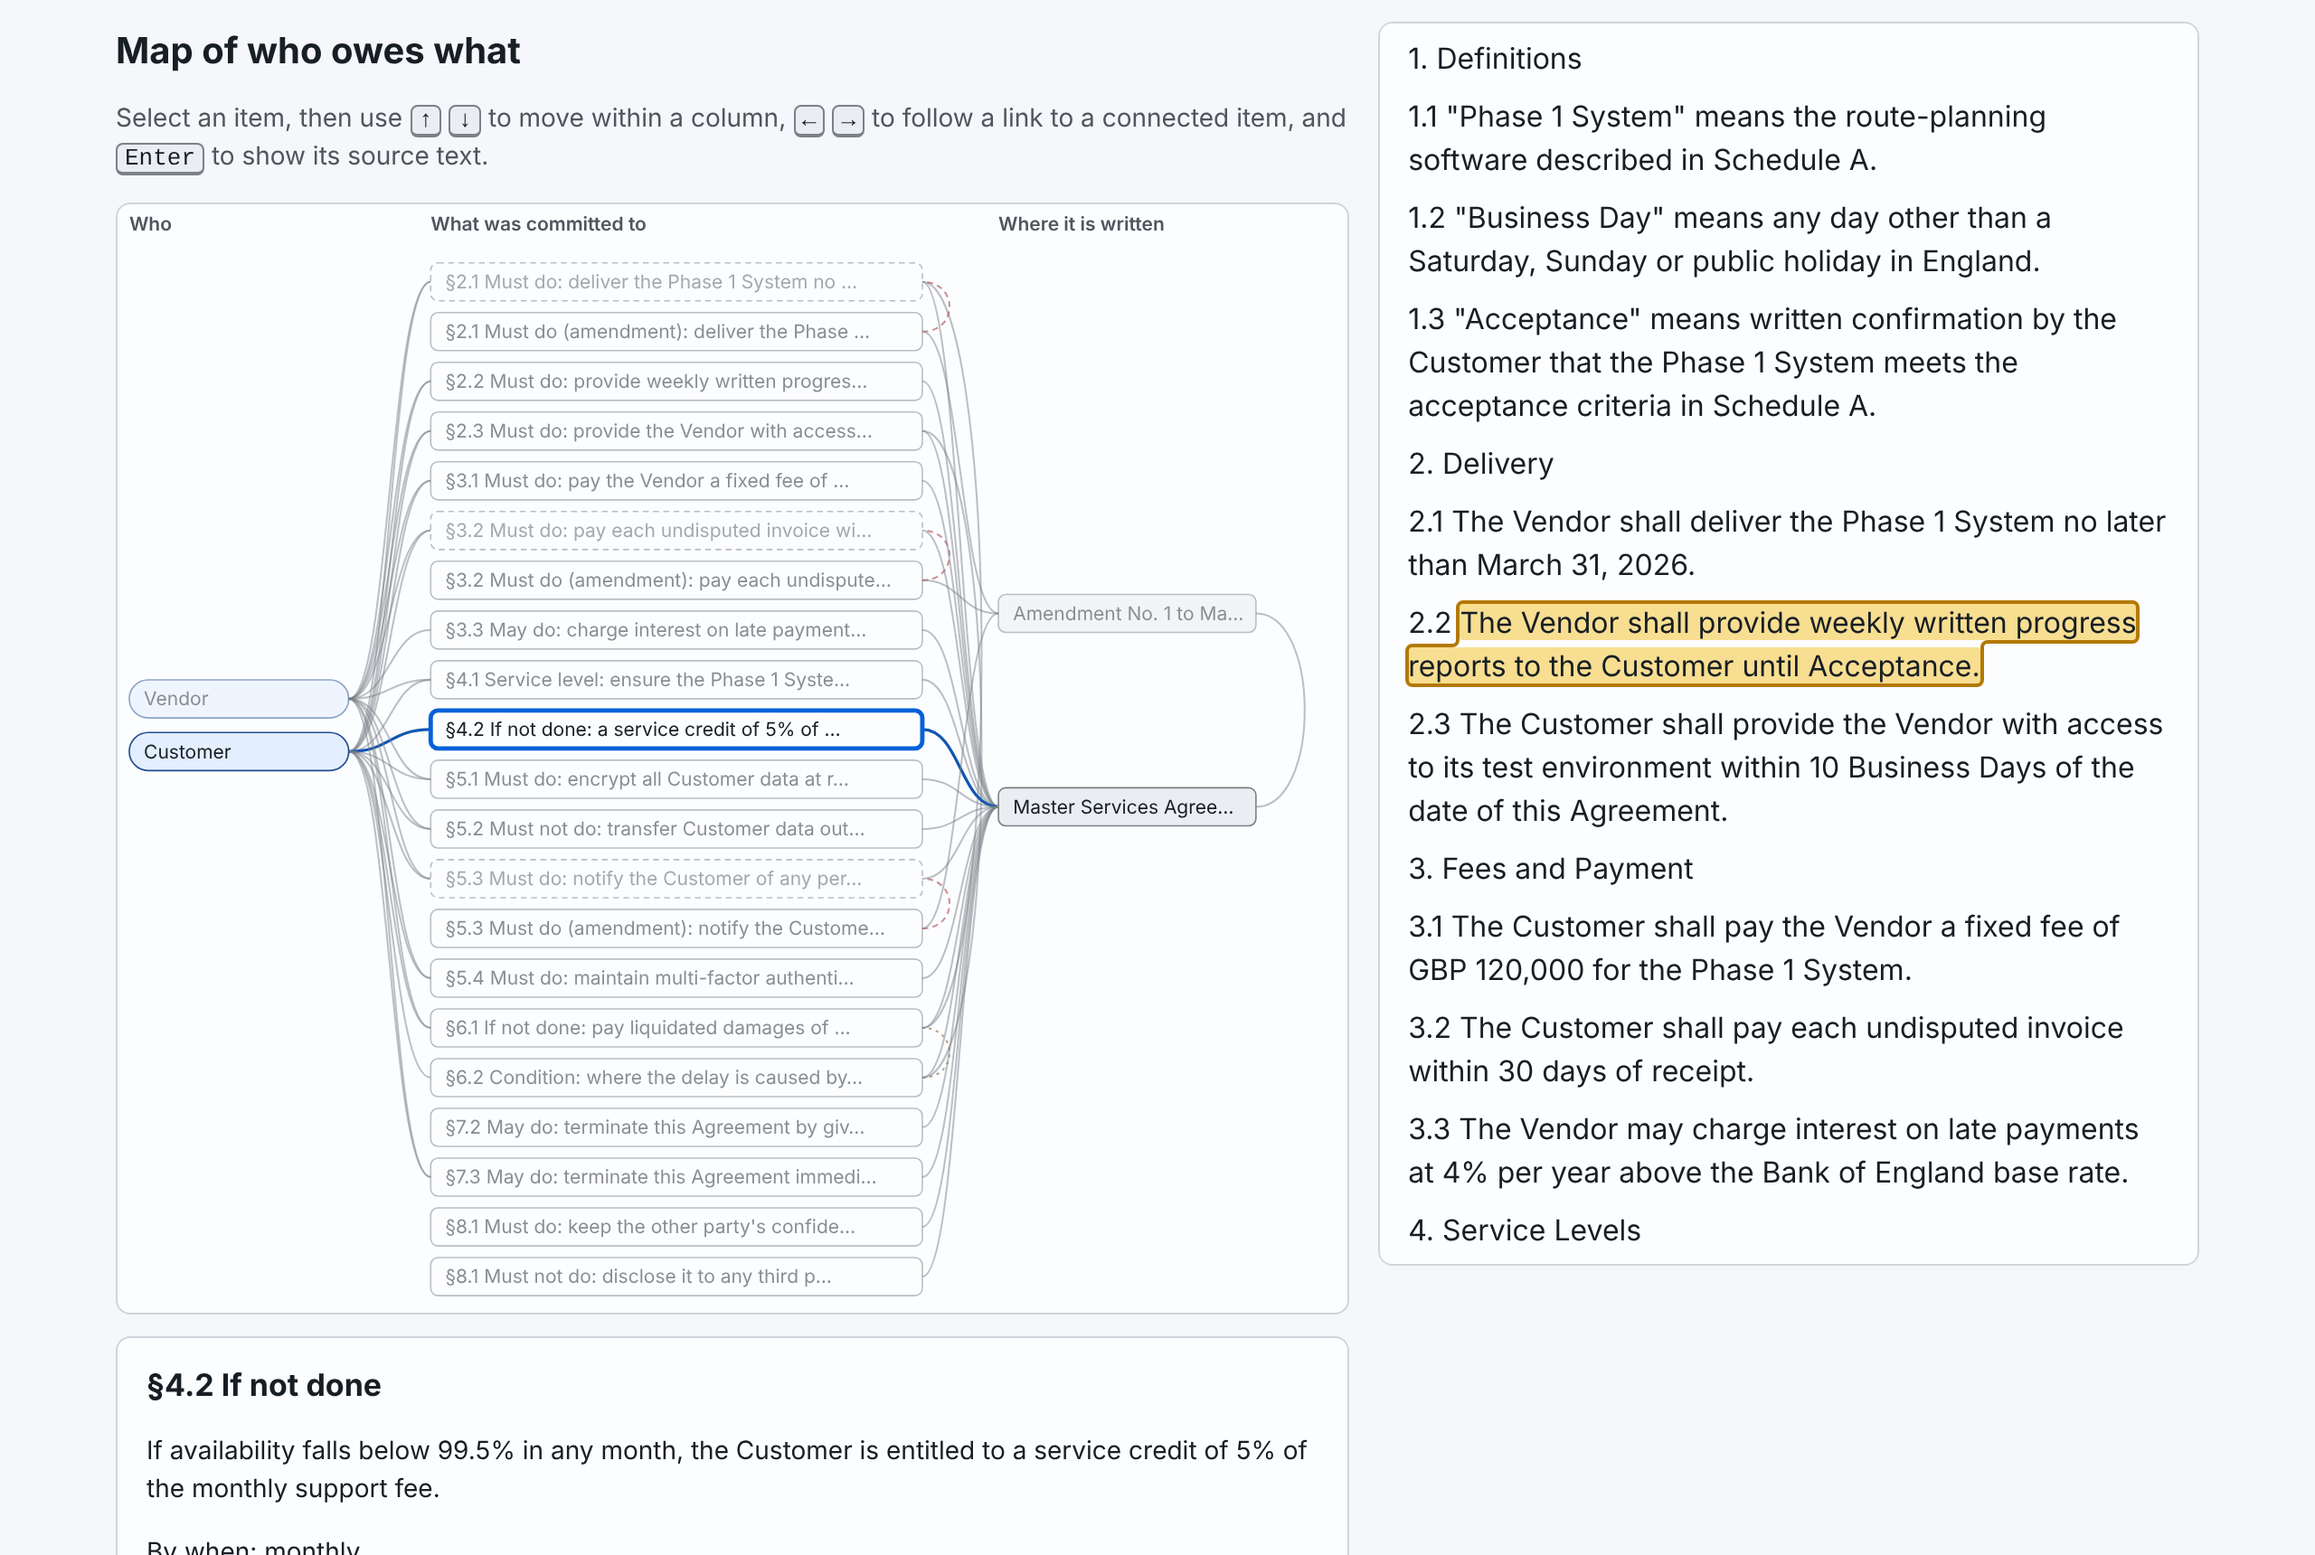
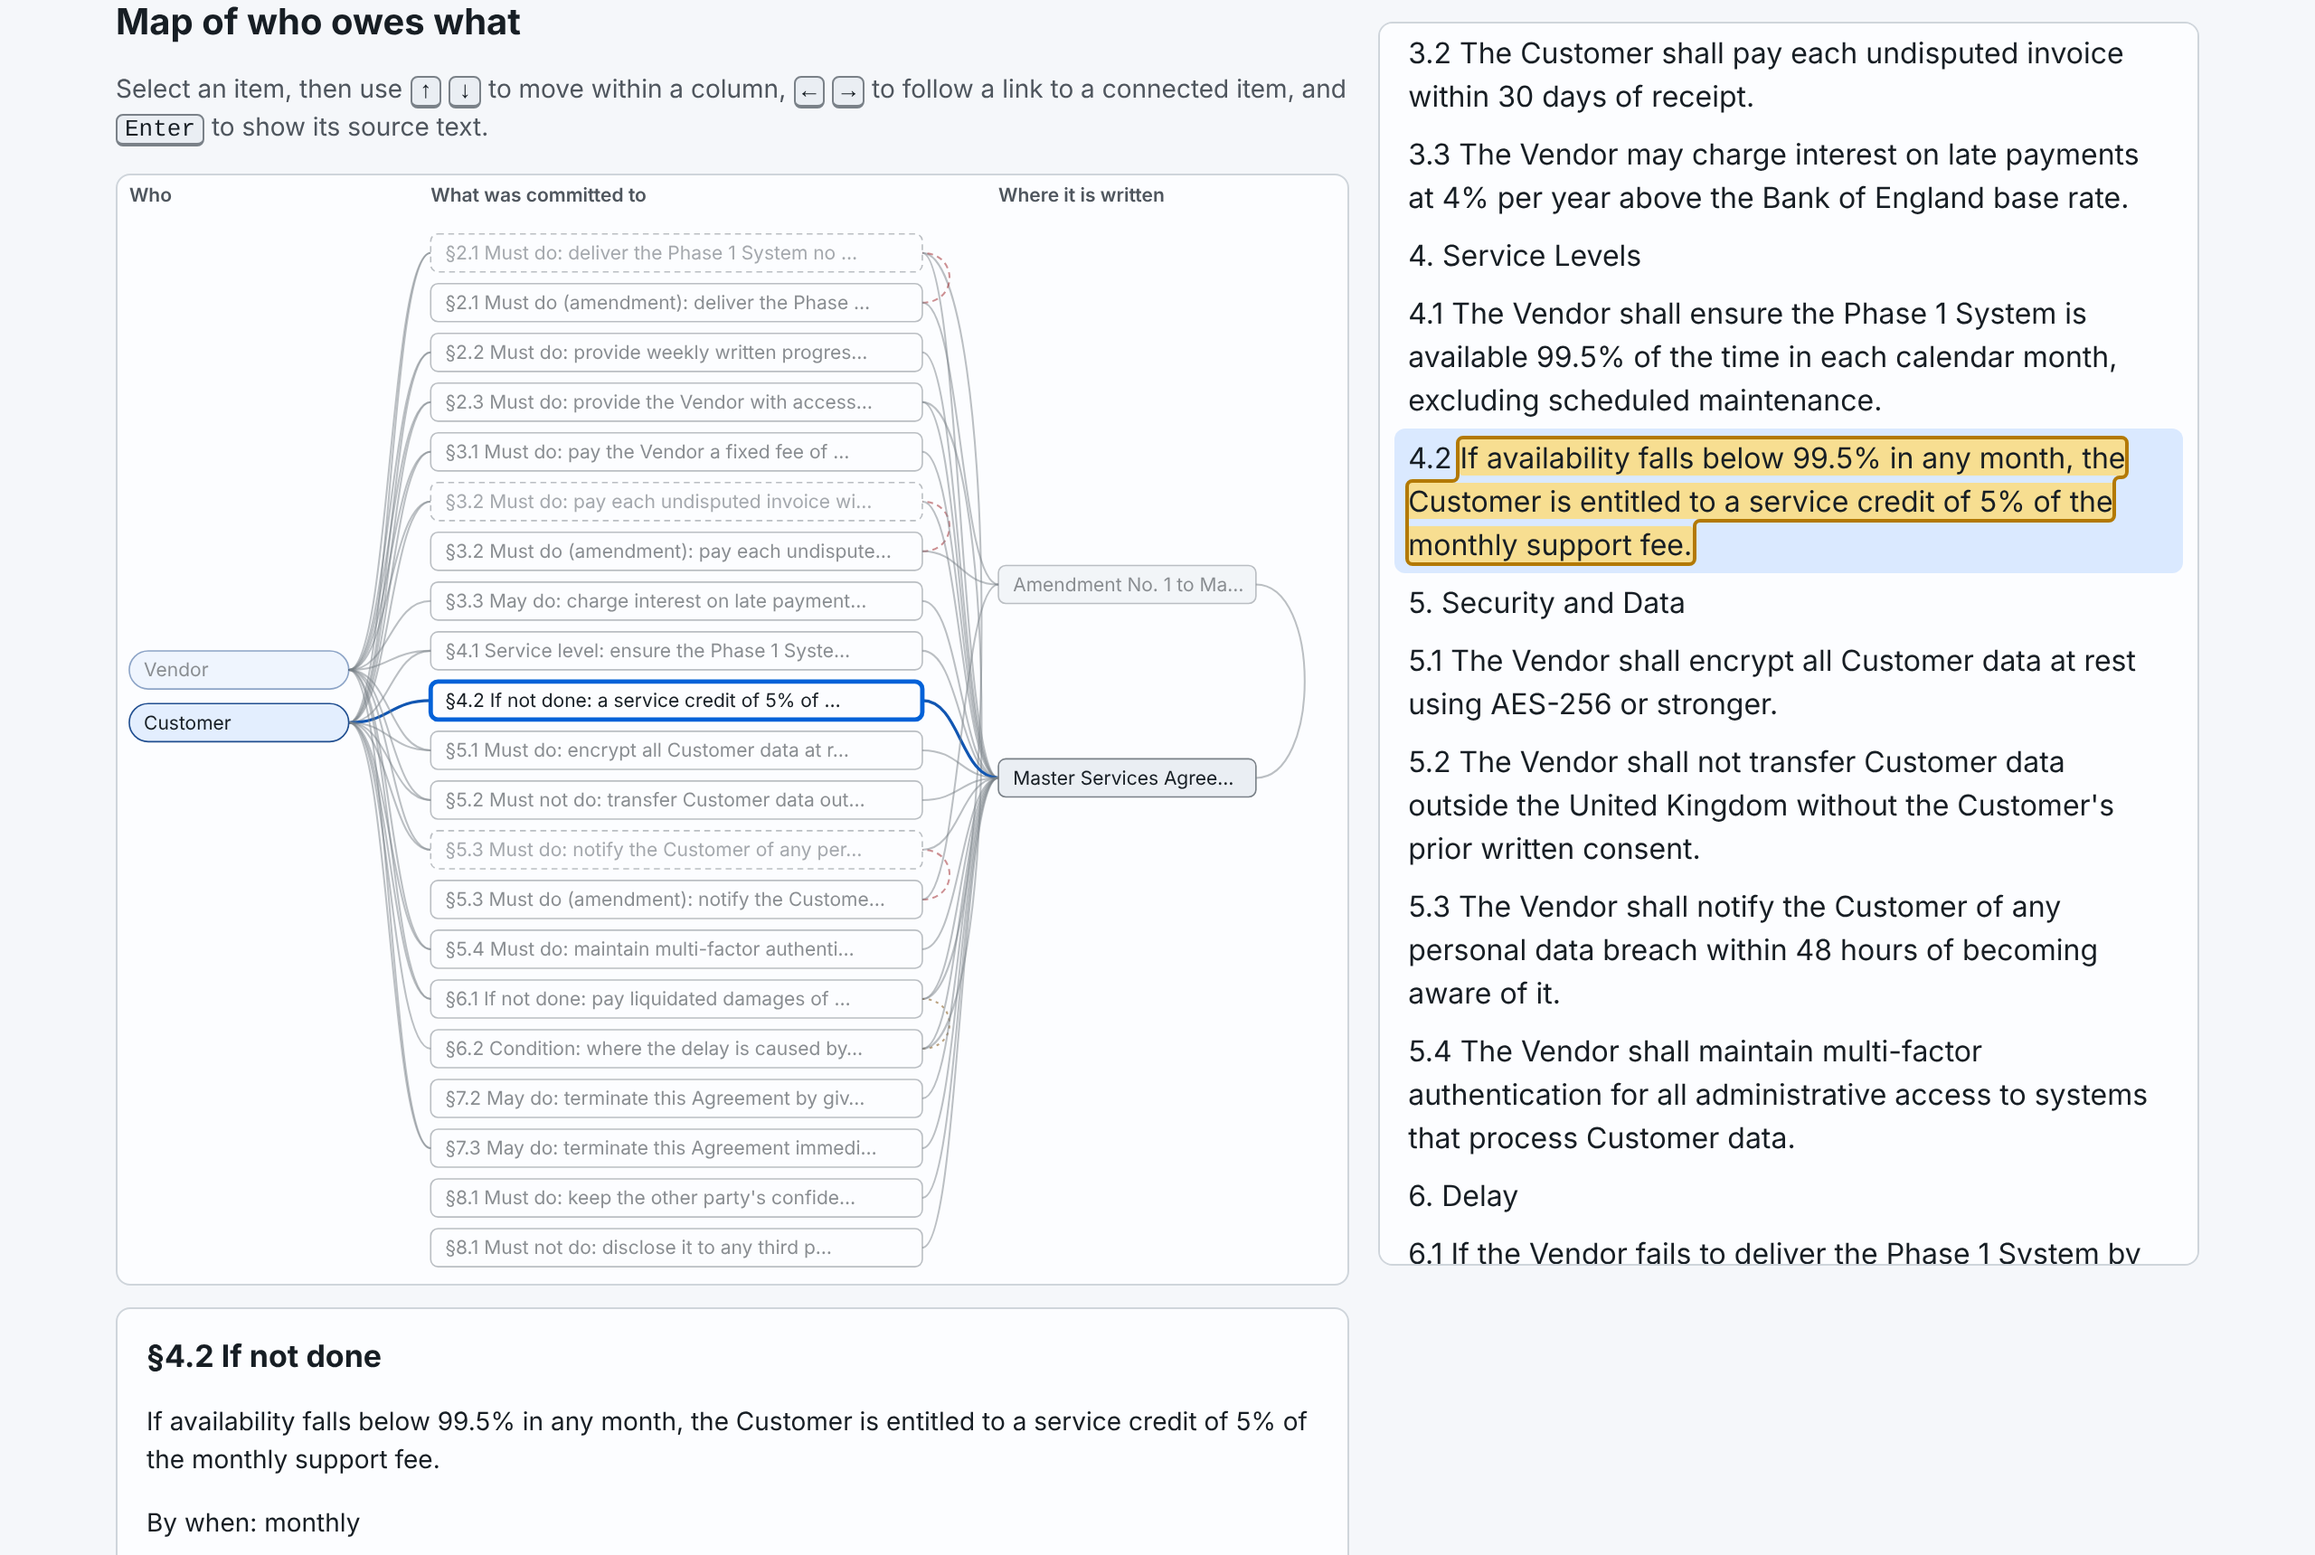
fix(web): keep the source highlight in step with the graph selection
focusNode (click, arrow keys, detail-pane links) changed the selected graph node but not the source
pane's highlight, so the pane kept showing the previously shown node's passage (docs/img/graph.png
showed exactly that: §4.2 selected, §2.2 highlighted).

RelationshipGraph now reports every selection change through onSelect; DocumentView highlights the
selected item's own span when it is in this document and clears the highlight otherwise (other
documents, Escape). Only the source pane scrolls, so keyboard navigation does not move the page.

e2e/smoke.mjs: after Enter shows a node, clicking another node, ArrowUp and following a detail-pane
link must each leave the highlight on the selected node's passage (or none). The axe helper now
waits for finite entrance animations to finish: contrast measured mid-fade on Ask was an
intermittent false failure (also seen with the original UI).

docs/img/graph.png regenerated at deviceScaleFactor 2: §4.2 selected with its own passage
highlighted.

Claude-Session: https://claude.ai/code/session_01GLxj2ZjLiticLiWJKfpWWb

Changed region(s): [[0.0312, 0.0, 0.9688, 1.0], [0.4375, 0.1233, 0.5, 0.1541]]

diff --git a/apps/web/src/Graph.tsx b/apps/web/src/Graph.tsx
@@ -33,8 +33,11 @@ function spread(nodes: GNode[], want: Map<string, number>) {
   for (const n of nodes) { n.y = Math.max(want.get(n.id) ?? TOP, last + MIN_GAP); last = n.y; }
 }
 
-export function RelationshipGraph({ graph, docId, items, passages, onShow }: {
+export function RelationshipGraph({ graph, docId, items, passages, onShow, onSelect }: {
   graph: GraphData; docId: string; items: Commitment[]; passages: Passage[]; onShow: (s: Span) => void;
+  /** Called whenever the selected node changes (click, arrow keys, detail-pane links, Escape), with that
+   *  node's source span or null, so the source pane never keeps highlighting a previous node's passage. */
+  onSelect?: (s: Span | null) => void;
 }) {
   const [docs, setDocs] = useState<Doc[]>([]);
   useEffect(() => { api.documents().then(setDocs).catch(() => undefined); }, []);
@@ -120,6 +123,16 @@ export function RelationshipGraph({ graph, docId, items, passages, onShow }: {
   });
   const lit = new Set<string>();
   if (active) { lit.add(active); for (const l of links(active)) { lit.add(l.edge.id); lit.add(l.other.id); } }
+
+  // Keep the source highlight in step with the selection. Skips the first render so opening the tab does
+  // not clear a highlight the user made elsewhere before selecting anything here.
+  const selected = active ? byId.get(active) ?? null : null;
+  const selectedSpan = selected?.span ?? null;
+  const mounted = useRef(false);
+  useEffect(() => {
+    if (!mounted.current) { mounted.current = true; return; }
+    onSelect?.(selectedSpan);
+  }, [active, selectedSpan]);
 
   const focusNode = (id: string) => { setFocusable(id); setActive(id); setHint(""); refs.current.get(id)?.focus(); };
   const open = (n: GNode) => { if (n.span) onShow(n.span); };

diff --git a/apps/web/src/DocumentView.tsx b/apps/web/src/DocumentView.tsx
@@ -48,6 +48,18 @@ export function DocumentView({ id }: { id: string }) {
     if (s.document_id !== id) { window.location.hash = `#/doc/${s.document_id}?p=${s.passage_id}`; return; }
     requestAnimationFrame(() => document.getElementById(`p-${s.passage_id}`)?.scrollIntoView({ block: "center" }));
   };
+  // Graph selection: highlight the selected item's own passage (or nothing) without moving the page;
+  // only the source pane scrolls, so arrow-key navigation stays put.
+  const select = (s: Span | null) => {
+    if (!s || s.document_id !== id || !s.passage_id) { setHighlight(null); return; }
+    setHighlight(s);
+    requestAnimationFrame(() => {
+      const box = sourceRef.current, el = document.getElementById(`p-${s.passage_id}`);
+      if (!box || !el) return;
+      const top = el.getBoundingClientRect().top - box.getBoundingClientRect().top;
+      if (top < 0 || top > box.clientHeight - el.offsetHeight) box.scrollTop += top - box.clientHeight / 3;
+    });
+  };
   const parties = useMemo(() => Array.from(new Set(items.map((c) => c.obliging_party).filter(Boolean))) as string[], [items]);
   const visible = items.filter((c) =>
     (!f.party || c.obliging_party === f.party) && (!f.type || c.type === f.type) &&
@@ -144,7 +156,7 @@ export function DocumentView({ id }: { id: string }) {
             </>
           )}
           {tab === "relationships" && graph && (<>
-            <RelationshipGraph graph={graph} docId={id} items={items} passages={passages} onShow={show} />
+            <RelationshipGraph graph={graph} docId={id} items={items} passages={passages} onShow={show} onSelect={select} />
             <Relationships graph={graph} items={items} />
           </>)}
           {tab === "checks" && (
